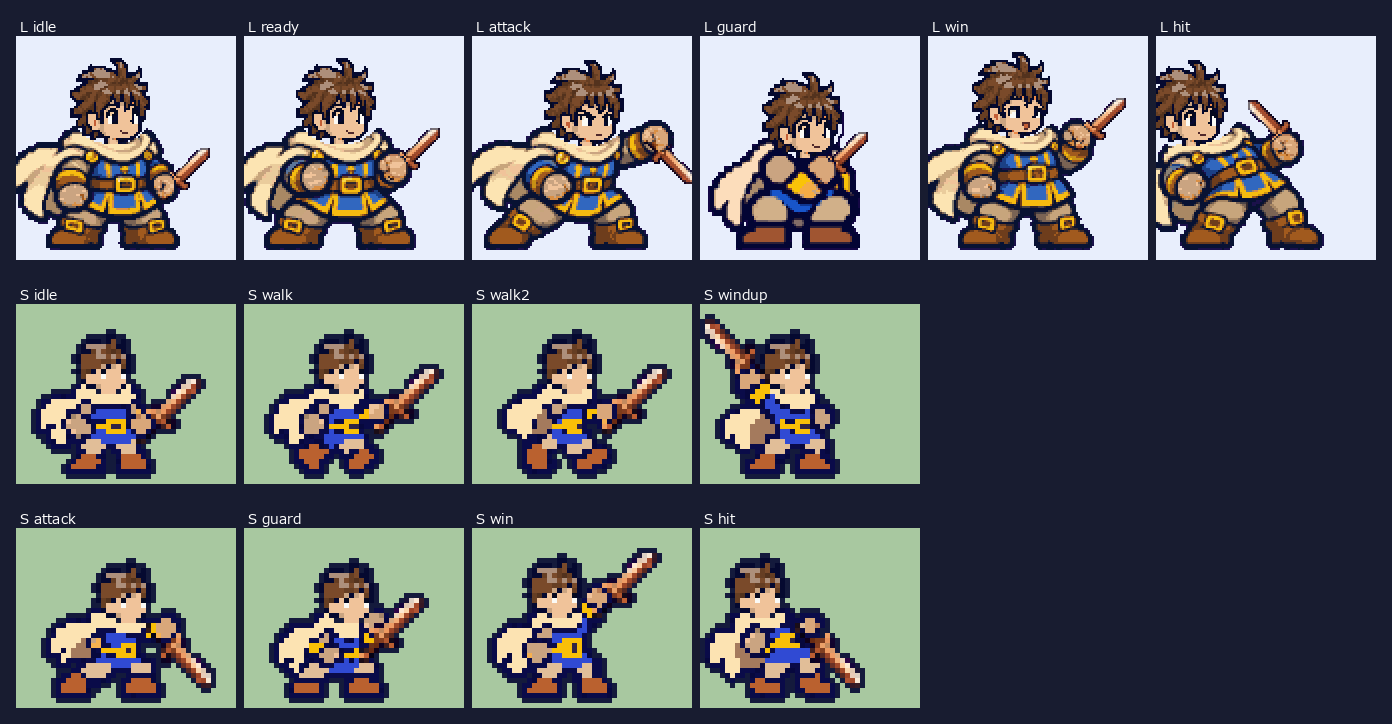
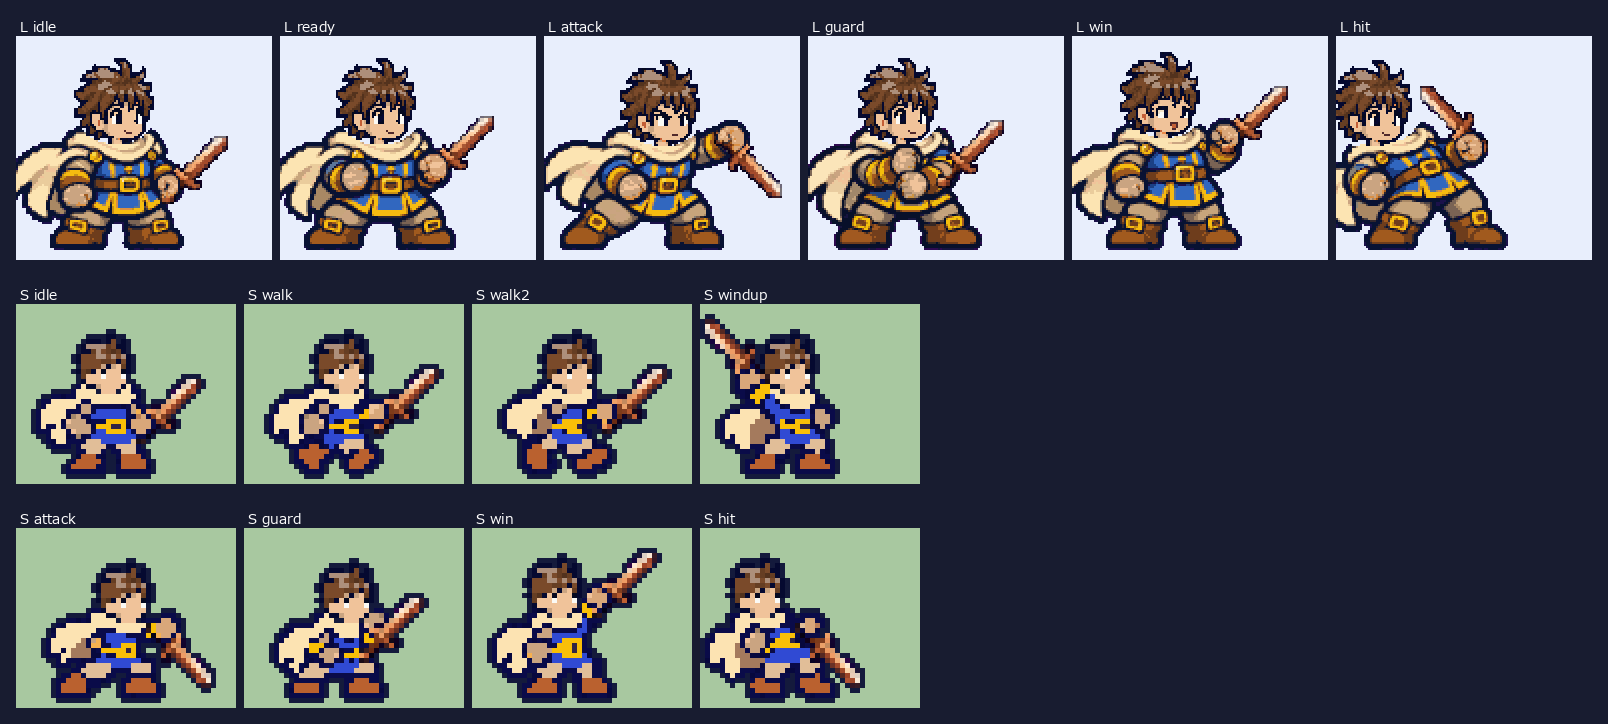
戦士の手直し：守りを立ち姿の構えに作り直し・L手持ち武器を1.31倍の専用絵に・木の剣を白木色にして青銅と区別

diff --git a/rpg/js/rpg-sprites.js b/rpg/js/rpg-sprites.js
@@ -147,7 +147,12 @@
         else {
           let wi = null;
           if (h.weaponId) { wi = iconImgOf(h.weaponId); if (!wi) { if (assetsPending()) return { mode: 'wait', h }; why = '武器アイコンなし：' + h.weaponId; } }
-          if (!h.weaponId || wi) return rec('layered', { body: b, head: hd, bf, hf, hand, wi, wk: wi ? iconFileOf(h.weaponId) : null });
+          if (!h.weaponId || wi) {
+            const wk = wi ? iconFileOf(h.weaponId) : null, we = wk && J.weapon && (J.weapon[wk] || J.weapon[stripPng(wk)]);
+            let held = null;   // L は専用の手持ち絵（店アイコンを拡大した held_<id>_L.png）を優先
+            if (we && we.held && h.size === 'L') { const hs = partImg(we.held); if (hs === 'pending') return { mode: 'wait', h }; if (hs !== 'fail') held = hs; }
+            return rec('layered', { body: b, head: hd, bf, hf, hand, wi: held || wi, wk, held: !!held });
+          }
         }
       }
     }
@@ -174,7 +179,7 @@
     items.push({ im: hi, x: hx, y: hy, w: hi.width, h: hi.height });
     if (plan.wi && b.grip) {
       const we = (J.weapon && (J.weapon[plan.wk] || J.weapon[stripPng(plan.wk)])) || null;
-      items.push({ im: plan.wi, weapon: weaponPlacement(b, we, plan.wi.width, plan.wi.height), w: plan.wi.width, h: plan.wi.height });
+      items.push({ im: plan.wi, weapon: weaponPlacement(b, plan.held && we.heldGrip ? { grip: we.heldGrip, tipAngle: we.tipAngle } : we, plan.wi.width, plan.wi.height), w: plan.wi.width, h: plan.wi.height });
     }
     if (plan.hand) { const him = PARTS.imgs[plan.hand].im, at = (b.handPos || b.handAt || (b.grip ? [b.grip[0] - him.width / 2, b.grip[1] - him.height / 2] : [0, 0])).map(Math.round); items.push({ im: tint(him, plan.hand), x: at[0], y: at[1], w: him.width, h: him.height }); }
     let x0 = 0, y0 = 0, x1 = bi.width, y1 = bi.height;

diff --git a/rpg/tools/fix08_shots.py b/rpg/tools/fix08_shots.py
@@ -1,6 +1,6 @@
 # 修正指示書08 戦士の新旧比較画像と比率の実測。python rpg/tools/fix08_shots.py
 # 出力: rpg/shots/fix08_warrior/（compare_L.png / compare_S_strip.png / weapons.png / poses.png / ratios.json）
-# 旧 = git HEAD の部品（rpg/assets/parts）。新 = 作業ツリー。描画は実物の rpg-sprites.js（drawHeroLayered）を headless Chromium で動かす。
+# 旧 = 修正前（コミット 706a192 の親）の部品（rpg/assets/parts）。新 = 作業ツリー。描画は実物の rpg-sprites.js（drawHeroLayered）を headless Chromium で動かす。
 import os, sys, io, json, subprocess, threading, http.server, socketserver, base64, tarfile, tempfile
 import numpy as np
 from PIL import Image, ImageDraw, ImageFont
@@ -8,7 +8,7 @@ from playwright.sync_api import sync_playwright
 ROOT = os.path.abspath(os.path.join(os.path.dirname(__file__), '..', '..'))
 OUT = os.path.join(ROOT, 'rpg', 'shots', 'fix08_warrior'); os.makedirs(OUT, exist_ok=True)
 OLD = tempfile.mkdtemp(prefix='fix08_old_')
-tar = subprocess.run(['git', '-C', ROOT, 'archive', 'HEAD', 'rpg/assets/parts'], capture_output=True, check=True).stdout
+tar = subprocess.run(['git', '-C', ROOT, 'archive', os.environ.get('OLD_REF', '706a192~1'), 'rpg/assets/parts'], capture_output=True, check=True).stdout
 tarfile.open(fileobj=io.BytesIO(tar)).extractall(OLD)
 OLD_PARTS = os.path.join(OLD, 'rpg', 'assets', 'parts')
 HTML = b'''<!doctype html><meta charset=utf-8><body style="margin:0"><script src="/rpg/js/rpg-sprites.js"></script><script>
@@ -92,7 +92,7 @@ with sync_playwright() as pw:
     def wrow(which, k, pose):
         cells = []
         for (w, nm), w2 in zip(W3, ('w_sword_1', 'w_sword_1', 'w_sword_2') if which == 'old' else [x[0] for x in W3]):
-            h = R(which, {'w': 130, 'h': 112, 'bg': 'color', 'color': '#e8eefc', 'items': [{'kind': 'hero', 'x': 60, 'y': 106, 'o': {'pose': pose, 'use': 'self', 'weaponId': w2}}]})
+            h = R(which, {'w': 150, 'h': 112, 'bg': 'color', 'color': '#e8eefc', 'items': [{'kind': 'hero', 'x': 60, 'y': 106, 'o': {'pose': pose, 'use': 'self', 'weaponId': w2}}]})
             ic = Image.new('RGBA', (32, 32), (232, 238, 252, 255)); ic.alpha_composite(icons[w])
             cells.append(labeled(hstack([up(h, k), up(ic, k)], gap=4, bg=(232, 238, 252, 255)), nm))
         return hstack(cells)
@@ -105,7 +105,7 @@ with sync_playwright() as pw:
     vstack([labeled(wrow('old', 3, 'idle'), '旧（初期武器は青銅の剣の絵に置き換わっていた。左のアイコンは店の絵）'), labeled(wrow('new', 3, 'idle'), '新 L 待機'), labeled(wrow('new', 3, 'attack'), '新 L 攻撃'), labeled(srow('new', 6), '新 S 待機')]).convert('RGB').save(os.path.join(OUT, 'weapons.png'))
     # --- ポーズ一覧（新）
     LP = ['idle', 'ready', 'attack', 'guard', 'win', 'hit']; SPS = ['idle', 'walk', 'walk2', 'windup', 'attack', 'guard', 'win', 'hit']
-    lcells = [labeled(up(R('new', {'w': 110, 'h': 112, 'bg': 'color', 'color': '#e8eefc', 'items': [{'kind': 'hero', 'x': 48, 'y': 106, 'o': {'pose': p, 'use': 'self', 'weaponId': 'w_sword_1'}}]}), 2), 'L ' + p) for p in LP]
+    lcells = [labeled(up(R('new', {'w': 128, 'h': 112, 'bg': 'color', 'color': '#e8eefc', 'items': [{'kind': 'hero', 'x': 50, 'y': 106, 'o': {'pose': p, 'use': 'self', 'weaponId': 'w_sword_1'}}]}), 2), 'L ' + p) for p in LP]
     scells = [labeled(up(R('new', {'w': 44, 'h': 36, 'bg': 'color', 'color': '#a8c8a0', 'items': [{'kind': 'hero', 'x': 18, 'y': 33, 'o': {'pose': p, 'use': 'strip', 'weaponId': 'w_sword_1', 'outline': '#141a3c'}}]}), 5), 'S ' + p) for p in SPS]
     vstack([hstack(lcells), hstack(scells[:4]), hstack(scells[4:])]).convert('RGB').save(os.path.join(OUT, 'poses.png'))
     # --- 実測用（武器なし・透明背景）

diff --git a/rpg/tools/parts_held.py b/rpg/tools/parts_held.py
@@ -1,0 +1,16 @@
+# L（大表示）用の手持ち武器絵：店アイコン(32px)を 42px（1.3125倍・最近傍）にして held_<id>_L.png に出し、parts.json の weapon に held/heldGrip を足す。
+# 頭が大きい新比率では1倍だと短剣に見えるため。S は従来どおりアイコン×0.5。形と色は店アイコンと同一。
+import os, sys
+from PIL import Image
+sys.path.insert(0, os.path.dirname(__file__))
+from parts_common import PARTS, save_parts_json
+ICONS = os.path.join(os.path.dirname(__file__), '..', 'assets', 'icons')
+IDS = ['w_start', 'w_sword_1', 'w_sword_2']
+N = 42; K = N / 32
+def mut(d):
+    for i in IDS:
+        im = Image.open(os.path.join(ICONS, i + '.png')).convert('RGBA').resize((N, N), Image.NEAREST)
+        f = f'held_{i}_L.png'; im.save(os.path.join(PARTS, f))
+        e = d['weapon'][i + '.png']; e['held'] = f; e['heldGrip'] = [round(e['grip'][0] * K + K / 2 - 0.5), round(e['grip'][1] * K + K / 2 - 0.5)]
+        print(i, e['heldGrip'])
+save_parts_json(mut)
